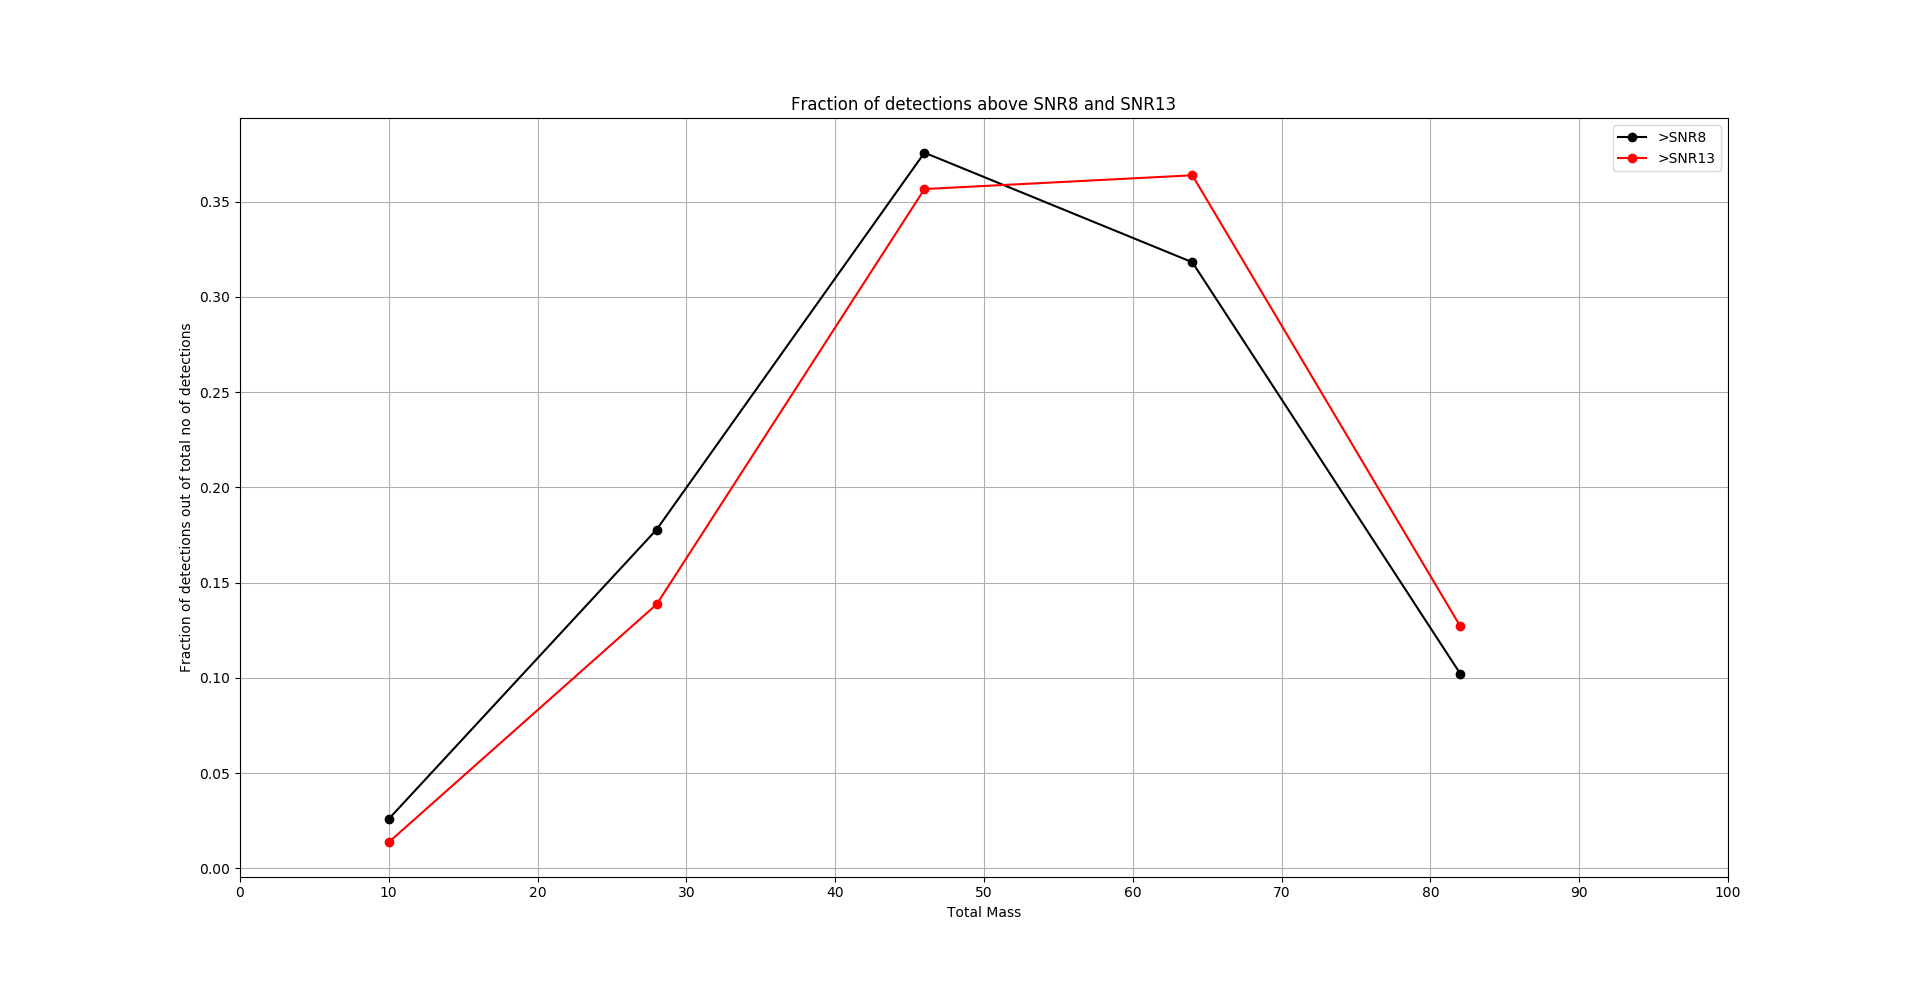
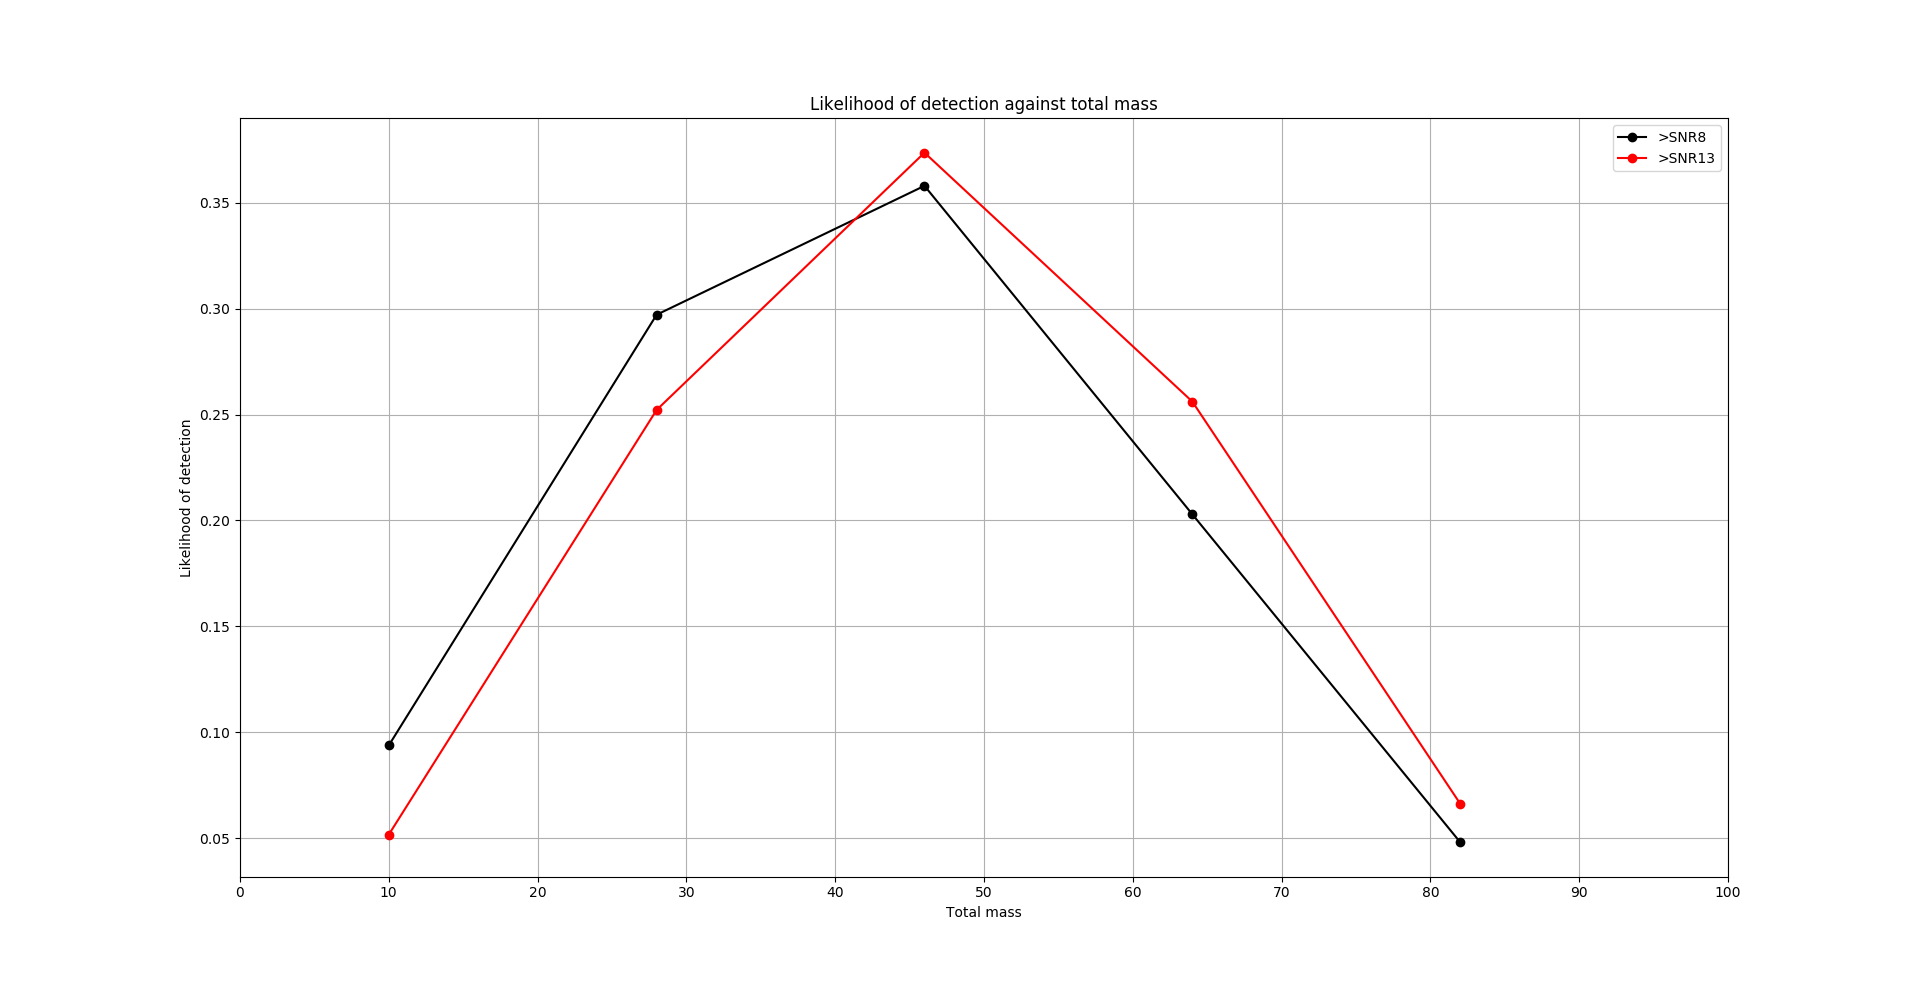
update

diff --git a/info/info.tex b/info/info.tex
@@ -7,15 +7,46 @@
 \usepackage{amssymb}
 \usepackage{mathtools}
 \usepackage{hyperref}
+\usepackage{booktabs}
 \everymath{\displaystyle}
 %\usepackage{mathrsfs}\\
 \DeclareMathAlphabet{\mathpzc}{OT1}{pzc}{m}{it}
 \numberwithin{equation}{section}
 % Start the document
 \begin{document}
+\section*{\normalsize{\textit{Abbott et. al.\\}}\small{GW170104: Observation of a 50-Solar-Mass Binary Black Hole Coalescence at Redshift 0.2}}
+The second observational run (O2) of aLIGO added 11 more days of coincident observation data and the detection of GW170104 to the observations made in first observational run (O1). Thus, improved BBH merger rate estimates have been obtained. Two simple models of population of BHs have been considered on a representative basis -\\
+1. Power law in $m_1$ and uniform in $m_2$,
+\begin{center}
+	$p(m_1,m_2) \propto m_1^{-\alpha}/(m_1-5M_\odot)$ with $\alpha = 2.35$\\
+\end{center}
+2. Uniform distribution in logarithms of both of the component masses.\\
+\\
+In both the cases, $m_1,m_2\geqslant 5M_\odot$ and $M\leqslant100M_\odot$. Taking the observations in O1 as a prior, the updated rate estimates are calculated as $R = 103^{+110}_{-63}$ Gpc$^{-3}$yr$^{-1}$ and $R = 32^{+33}_{-20}$ Gpc$^{-3}$yr$^{-1}$ for the two models respectively. Also, the new range of event rate which caps the two distributions is calculated to be $12 - 213$ Gpc$^{-3}$yr$^{-1}$ and is consistent with the previous range $9 - 240$ Gpc$^{-3}$yr$^{-1}$, calculated from O1.\\
+\\
+With the addition of GW170104 to the previous detections GW150914, LVT151012 and GW151226, the value of $\alpha$ in power law distribution (as discussed above) is updated from $2.5^{+1.5}_{-1.6}$ to $2.3^{+1.3}_{-1.4}$ (Section IV of Supplement Material\cite{1})
 
-% Create a new 1st level heading
-\section{Limits on Visible Space}
 
+\section*{\normalsize{\textit{Abadie et. al.\\}}\small{Predictions for the Rates of Compact Binary Coalescences Observable Ground-based Gravitational-wave Detectors}}
+Astrophysical predictions of CBC merger rates depend on a number of assumptions and unknown model parameters and are still ambiguious. This paper published in 2010, summarizes all the predictions made about CBC merger and detection rates from 2000 to October 1 2009. The most confident estimates are those of binary neutron stars because of the extrapolations of observed BNS systems in our Galaxy.\\
+\\
+CBC rates are assumed to be proportional to the stellar birth rates in spiral galaxies in the vicinity, which can be determined by their blue light luminosity L$_{B, \odot}$. Thus, the rates are expressed as coalescence rate per unit L$_{10}$ ($10^{10}$ times solar blue light luminosity, L$_{B, \odot})$. This method, however, does not track the star formation rate in the past very accurately as it does not consider the contributions of older populations from elliptical galaxies. Thus predictions made here are mainly dependent on the contribution from spiral galaxies and thus the rates are calculated in the units MWEG$^{-1}$ or L$_{10}^{-1}$. In future, when contribution from elliptical galaxies is properly included in the literature, overall rates will, more naturally, be qouted in Mpc$^{-3}$. Thus, rates dependent on spiral galaxies can be qouted in units Mpc$^{-3}$ Myr$^{-1}$ as follows,
+\begin{table}[h!]
+	\centering
+	\caption{Compact binary coalescence rates Mpc$^{-3}$ Myr$^{-1}$}
+	\label{tab:table1}
+	\begin{tabular}{ccccc}
+		\toprule
+		Source & $R_{low}$ & $R_{re}$ & $R_{high}$ & $R_{max}$\\
+		\midrule
+		NS-NS (Mpc$^{-3}$ Myr$^{-1}$) & 0.01 & 1 & 10 & 50\\
+		NS-BH (Mpc$^{-3}$ Myr$^{-1}$) & 6 $\times$ 10$^{-4}$ & 0.03 & 1 & \\
+		BH-BH (Mpc$^{-3}$ Myr$^{-1}$) & 1 $\times$ 10$^{-4}$ & 0.005 & 0.3 & \\
+		\bottomrule
+	\end{tabular}
+\end{table}
 
+\newpage
+\bibliographystyle{plain}
+\bibliography{info}
 \end{document}

diff --git a/src/Data_gen-ALPHA_N.py b/src/Data_gen-ALPHA_N.py
@@ -1,0 +1,86 @@
+from function_SNR import *
+import csv
+import matplotlib.pyplot as plt
+import time
+
+start_time1 = time.time()
+
+# Input
+rl = 648.8 * Mpc
+ru = 2030.6 * Mpc
+Md = 1000
+vol = 4. / 3. * np.pi * (ru ** 3. - rl ** 3.)
+
+# Arrays
+r = np.linspace(0., vol, Md)
+r *= 3. / (4. * np.pi)
+r += rl ** 3.
+r **= (1. / 3.)
+
+# Last column will be detections above SNR 13. We have to compare it to the expected value 6 per year
+title = 'N, ALPHA, frac det>SNR8, frac det>SNR9, frac det>SNR10, frac det>SNR11, frac det>SNR12, frac det>SNR13, det>SNR13'   
+file1 = open('Data_N_ALPHA_SNR8_9_10_11_12_13_det.csv', 'w')
+
+Ns = np.arange(5., 50., 1.)
+ALPHAs = np.arange(-3., 1., 0.1)
+Iters = 100
+
+data = np.zeros([Iters*len(Ns)*len(ALPHAs), 9])
+counter = 0
+Tot_its = len(Ns) * len(ALPHAs) * Iters
+
+for N in Ns:
+
+      for ALPHA in ALPHAs:
+
+            for j in range(Iters):
+
+                  if counter < 1: timer = time.time()
+
+                  timer2 = time.time()
+                  M1 = np.random.uniform(5. * Msun, 50. * Msun, Md)
+                  M2 = np.random.uniform(5. * Msun, 50. * Msun, Md)
+                  alpha = np.random.uniform(0., 2.*np.pi, Md)
+                  delta = np.random.uniform(-np.pi/2., np.pi/2., Md)
+                  iota = np.random.uniform(0., np.pi, Md)
+                  M = M1 + M2
+
+                  wt_M = M ** ALPHA # This is the array defining weightages
+
+                  SNR = find_SNR(M1, M2, r, alpha, delta, iota)
+
+                  n, bins = np.histogram(SNR, bins=np.linspace(0., 60., 61), weights=wt_M, density=True)
+
+                  # Calculating the fraction of area above a specific SNR value
+                  data[counter][0] = N
+                  data[counter][1] = ALPHA
+                  data[counter][2] = np.sum(n[8:1000])
+                  data[counter][3] = np.sum(n[9:1000])
+                  data[counter][4] = np.sum(n[10:1000])
+                  data[counter][5] = np.sum(n[11:1000])
+                  data[counter][6] = np.sum(n[12:1000])
+                  data[counter][7] = np.sum(n[13:1000])
+                  data[counter][8] = data[j][7] * N
+
+                  # print 'row: ', counter + 1
+                  counter += 1
+                  if counter < 2: it_time = time.time() - timer
+
+                  if counter % 100 == 0:
+                        print 'row: ', counter
+                        print 'Time remaining: ', (Tot_its - counter) * it_time / 3600, ' Hrs'
+
+np.savetxt(file1, data, delimiter=',', header=title, newline='\n')
+file1.close()
+print("Time taken for iterations and file saving: %s seconds" % (time.time() - start_time1))
+start_time2 = time.time()
+
+title2 = 'N, ALPHA, frac det>SNR8, frac det>SNR9, frac det>SNR10, frac det>SNR11, frac det>SNR12, frac det>SNR13'
+file2 = open('dat_6det_yr_N_ALPHA_SNR8_9_10_11_12_13.csv', 'w')
+
+data_6_det = data[np.where(data[:,8]>5.9)]
+data_6_det = data_6_det[np.where(data_6_det[:,8]<6.1)]
+
+np.savetxt(file2, data_6_det, delimiter=',', header=title2, newline='\n')
+file2.close()
+print("Time taken for next file saving: %s seconds" % (time.time() - start_time2))

diff --git a/src/Histograms_of_SNR_and_likelihood_of_detection_for_diff_mass_bins.py b/src/Histograms_of_SNR_and_likelihood_of_detection_for_diff_mass_bins.py
@@ -1,0 +1,97 @@
+import numpy as np
+import matplotlib.pyplot as plt
+
+Msun = 1.989e30
+
+dat = np.genfromtxt('Data_M1_M2_M_r_alpha_delta_iota_SNR.csv', delimiter=',')    # Reading data into an array
+
+def Calc_for(M_l, M_up):
+    i = 0
+    file1 = open('Data_M1_M2_M_r_alpha_delta_iota_SNR.csv', 'r')        # Only for checking end of file
+    SNR1 = []
+    M1 = []
+    lin = file1.readline()
+    while True:
+
+        lin = file1.readline()
+        if not lin:
+            break
+
+        if (dat[i, 2] > M_l*Msun) and (dat[i, 2] <= M_up*Msun):
+            M1.append(dat[i, 2])
+            SNR1.append(dat[i, 7])
+
+        i += 1
+    
+    M1 = np.array(M1)
+    wt_M = M1 ** ALPHA
+    SNR1 = np.array(SNR1)
+
+    mean1 = np.average(SNR1)
+    med1 = np.median(SNR1)
+    var1 = np.var(SNR1)
+
+    n1, bin1 = np.histogram(SNR1, bins=np.linspace(5., 60., 56), weights=wt_M)
+
+    return mean1, med1, var1, n1, bin1
+
+def Plot(n1, bin1, M_l, M_up, style):
+    plt.plot(bin1[:-1], n1, style, label='%1.1f Msun < Total Mass <= %1.1f Msun\nMean: %1.1f, Median: %1.1f, Variance: %1.1f' %(M_l, M_up, mean1, med1, var1))
+
+def Normalise(Mat):
+    total = 0.
+    for ii in range(5):
+        total += np.sum(Mat[ii])
+    for ii in range(5):
+        Mat[ii] = Mat[ii]/total
+    return Mat[0], Mat[1], Mat[2], Mat[3], Mat[4]
+
+
+ALPHA = -2.35
+
+mean1, med1, var1, n1, bin1 = Calc_for(10., 28.)
+mean2, med2, var2, n2, bin2 = Calc_for(28., 46.)
+mean3, med3, var3, n3, bin3 = Calc_for(46., 64.)
+mean4, med4, var4, n4, bin4 = Calc_for(64., 82.)
+mean5, med5, var5, n5, bin5 = Calc_for(82., 100.)
+
+n1, n2, n3, n4, n5 = Normalise([n1, n2, n3, n4, n5])
+
+frac8 = np.array([np.sum(n1[8:1000]), np.sum(n2[8:1000]), np.sum(n3[8:1000]), np.sum(n4[8:1000]), np.sum(n5[8:1000])])
+frac13 = np.array([np.sum(n1[13:1000]), np.sum(n2[13:1000]), np.sum(n3[13:1000]), np.sum(n4[13:1000]), np.sum(n5[13:1000])])
+
+frac8 /= np.sum(frac8)
+frac13 /= np.sum(frac13)
+
+
+plt.figure()
+plt.plot(np.arange(10., 100., 18.), frac8, 'ko-',  label='>SNR8')
+plt.plot(np.arange(10., 100., 18.), frac13, 'ro-', label='>SNR13')
+
+plt.xlabel('Total Mass')
+plt.ylabel('Fraction of detections out of total no of detections')
+plt.title('Fraction of detections above SNR8 and SNR13')
+plt.grid(True)
+plt.xticks(np.linspace(0., 100., 11))
+#plt.yticks(np.linspace(0., 0.5, 11))
+#plt.axis([0., 100., 0., 0.7])
+plt.legend(loc='upper right')
+
+
+plt.figure()
+Plot(n1, bin1, 10., 28., 'ko-')
+Plot(n2, bin2, 28., 46., 'g^-')
+Plot(n3, bin3, 46., 64., 'rx-')
+Plot(n4, bin4, 64., 82., 'y*-')
+Plot(n5, bin5, 82., 100., 'b+-')
+
+plt.xlabel('SNR')
+plt.ylabel('Probability')
+plt.title('Probability Distribution of SNRs for different mass bins')
+plt.grid(True)
+plt.xticks(np.linspace(0., 60., 31))
+# plt.yticks(np.linspace(0, 0.3, 7))
+# plt.axis([0, 60, 0, 0.3])
+plt.legend(loc='upper right')
+
+plt.show()

diff --git a/src/Plot_ALPHA_vs_N_(2D_histo).py b/src/Plot_ALPHA_vs_N_(2D_histo).py
@@ -1,0 +1,50 @@
+import numpy as np
+import matplotlib.pyplot as plt
+
+
+i = 0
+
+dat = np.genfromtxt('dat_6det_yr_N_ALPHA_SNR8_9_10_11_12_13.csv', delimiter=',')
+
+file1 = open('dat_6det_yr_N_ALPHA_SNR8_9_10_11_12_13.csv', 'r')
+
+AvN = []
+lin = file1.readline()
+while True:
+	
+	lin = file1.readline()
+	if not lin:
+		break
+	
+	AvN.append([dat[i+1, 0], dat[i+1, 1]])
+	
+	i += 1
+
+AvN = np.array(AvN)
+
+X = np.linspace(3, 22, 19)
+Y = np.arange(-3.2, 3.4, 0.1)
+
+H, X, Y = np.histogram2d(AvN[:,0], AvN[:,1], bins=(X, Y))
+H = H.T
+
+fig = plt.figure(figsize=(40,60))
+# plt.plot(AvN[:,0],AvN[:,1], 'bo')
+
+ax = fig.add_subplot(111, title='pcolormesh: actual edges') #, aspect='equal')
+
+Xm, Ym = np.meshgrid(X, Y)
+ax.pcolormesh(Xm, Ym, H)
+
+cax = ax.imshow(H, interpolation='none')
+fig.colorbar(cax, ax=ax)
+
+plt.xticks(np.linspace(4, 22, 10))
+plt.yticks(np.arange(-3.2, 3.4, 0.4))
+plt.axis([4, 22, -3.2, 3.2])
+plt.xlabel('No of injections (N)')
+plt.ylabel('ALPHA')
+plt.title('ALPHA vs N (for constraint of 6 detections/yr having SNR>13)')
+
+plt.show()
+                                                                                                                                                                                                                                                                                                                                                                                                                                                                                                                                                                                                                                                                                                                                                                                                                                                                                                                                                                                                                                                                                                                                          

diff --git a/src/Limits_on_visible_space.py b/src/Limits_on_visible_space.py
@@ -8,8 +8,7 @@ def r_for_SNR(tol, val, x, y):
 	yy = y[np.where(y>(val-tol))]
 	# print np.where(yy<(val+tol))
 	return x[np.where(yy<(val+tol))]
-
-
+	
 # Main function which finds SNR, cutoff on distance and plots the graphs
 # Takes input as a matrix containing info: [SNRcutoff, M_BH, low_lim_x_axis, uppr_lim_x_axis, uppr_lim_y_axis, tolerance, offset for annotation in x, in y, annotation]
 def calc_plot(Mat):
@@ -19,14 +18,9 @@ def calc_plot(Mat):
 	x_L = Mat[3]
 	y_L = Mat[4]
 	tolrnc = Mat[5]
-
-	M1 = M2 = np.ones(len(r)) * ML * Msun
-	alpha = np.array([Mat[9]])
-	delta = np.array([Mat[10]])
-	iota = np.array([Mat[11]])
-	
-	SNR  = find_SNR(M1, M2, r, alpha, delta, iota)
-
+	M1 = np.ones(len(r)) * ML * Msun
+	M2 = np.ones(len(r)) * ML * Msun
+	SNR  = find_simple_SNR(M1, M2, r)
 	rL = r_for_SNR(tolrnc, cut, r, SNR)/Mpc
 	print '(', rL, ', ', cut, ')'
 
@@ -49,8 +43,7 @@ def calc_plot(Mat):
 r = np.linspace(100, 5000, 1001)
 r *= Mpc
 
-Mats = [[60., 50., 0., 3000., 300., 0.7, 50., 4., 'Lower Cutoff', 0., 0., np.pi], [5., 5., 0., 5000., 100., 0.01, 70., 4., 'Higher Cutoff', 0., 0., np.pi]]
-		# [[60., 50., 0., 3000., 300., 0.1, 50., 4., 'Lower Cutoff', sky_lookup[4844, 0], sky_lookup[4844, 1], np.pi], [5., 5., 0., 5000., 100., 0.2, 70., 4., 'Higher Cutoff', sky_lookup[17039, 0], sky_lookup[17039, 1], np.pi/2.]]
+Mats = [[60., 50., 0., 3000., 300., 0.2, 50., 4., 'Lower Cutoff'], [5., 5., 0., 5000., 100., 0.005, -700., 4., 'Higher Cutoff']]
 
 calc_plot(Mats[0])
 calc_plot(Mats[1])

diff --git a/README.md b/README.md
@@ -17,26 +17,25 @@ To study effect of CBC mass distribution on GW signal SNR
 		- one to calculate the distance at which specific SNR value is obtained
 		- second to plot the graphs of SNR vs Distance with the limiting values
 		
-3. **_Data_gen-Gamma_N.py_**
-	- We take different values of merger rates and calculate the no of observations (> SNR13) taking different values of gamma
-	- Here gamma is the combined parameter obtained as follows.
-	- We assume mass dependence of source distribution coming from merger time of binaries (M^alpha) and number density of binaries (M^-beta). Thus, combined mass dependence becomes M^(alpha-beta) => M^gamma (say).
-	- Also, we create a separate file for the N-gamma cobinations giving 6 detections per year (2 detections in 4 months)
+3. **_Data_gen-ALPHA_N.py_**
+	- We take different values of merger rates and calculate the no of observations (> SNR13) taking different values of ALPHA
+	- Here ALPHA is the combined parameter obtained as follows.
+	- We assume mass dependence of source distribution coming from merger time of binaries (M^alpha) and number density of binaries (M^-beta). Thus, combined mass dependence becomes M^(alpha-beta) => M^ALPHA (say).
+	- Also, we create a separate file for the N-ALPHA cobinations giving 6 detections per year (2 detections in 4 months)
 	
-4. **_Plot_gamma_vs_N_(2D_histo).py_**
-	- 2D histogram with N and gamma as its axes, shows colour coded density of bins of N-gamma combinations giving 6 detections per year.
+4. **_Plot_ALPHA_vs_N_(2D_histo).py_**
+	- 2D histogram with N and ALPHA as its axes, shows colour coded density of bins of N-ALPHA combinations giving 6 detections per year.
 
 5. **_Data_gen-M1_M2_r_alpha_delta_iota_SNR_**
 	- Here we inject 10^6 binaries uniformly distributed in space, having random positions in sky, with random orientations wrt line of sight.
 	- We record the data in a .csv file with format 'BH1 Mass (Msun), BH2 Mass (Msun), Total Mass (Msun), Distance (Mpc), alpha, delta, iota, SNR'
+	- (Note the difference between alpha (right inclination angle) and ALPHA (parameter determining weightage - M^ALPHA))
 	
-6. **_Histograms_of_SNR_for_diff_mass_bins_**
+6. **_Histograms_of_SNR_and_likelihood_of_detection_for_diff_mass_bins_**
 	- We saggregate the above recorded data in different mass bins (total mass of binaries).
-	- We weigh the data with weighing factor M^gamma
+	- We weigh the data with weighing factor M^ALPHA
 	- We plot histograms of SNRs for these bins.
 	- Mean, median and variance are calculated for each bin
-	
-7. **_Fraction_of_mergers_above_SNR_8_13_**
 	- From the above histograms we check for the number of observations above specific SNR value (8 and 13 here)
 	- These numbers, plotted against the mean mass of the bins, give the likelihood of the mass bins to give a detection with SNR above a particular value.
 	- Thus we obtain the relation between total mass of binaries and their likelihood to be detected.
